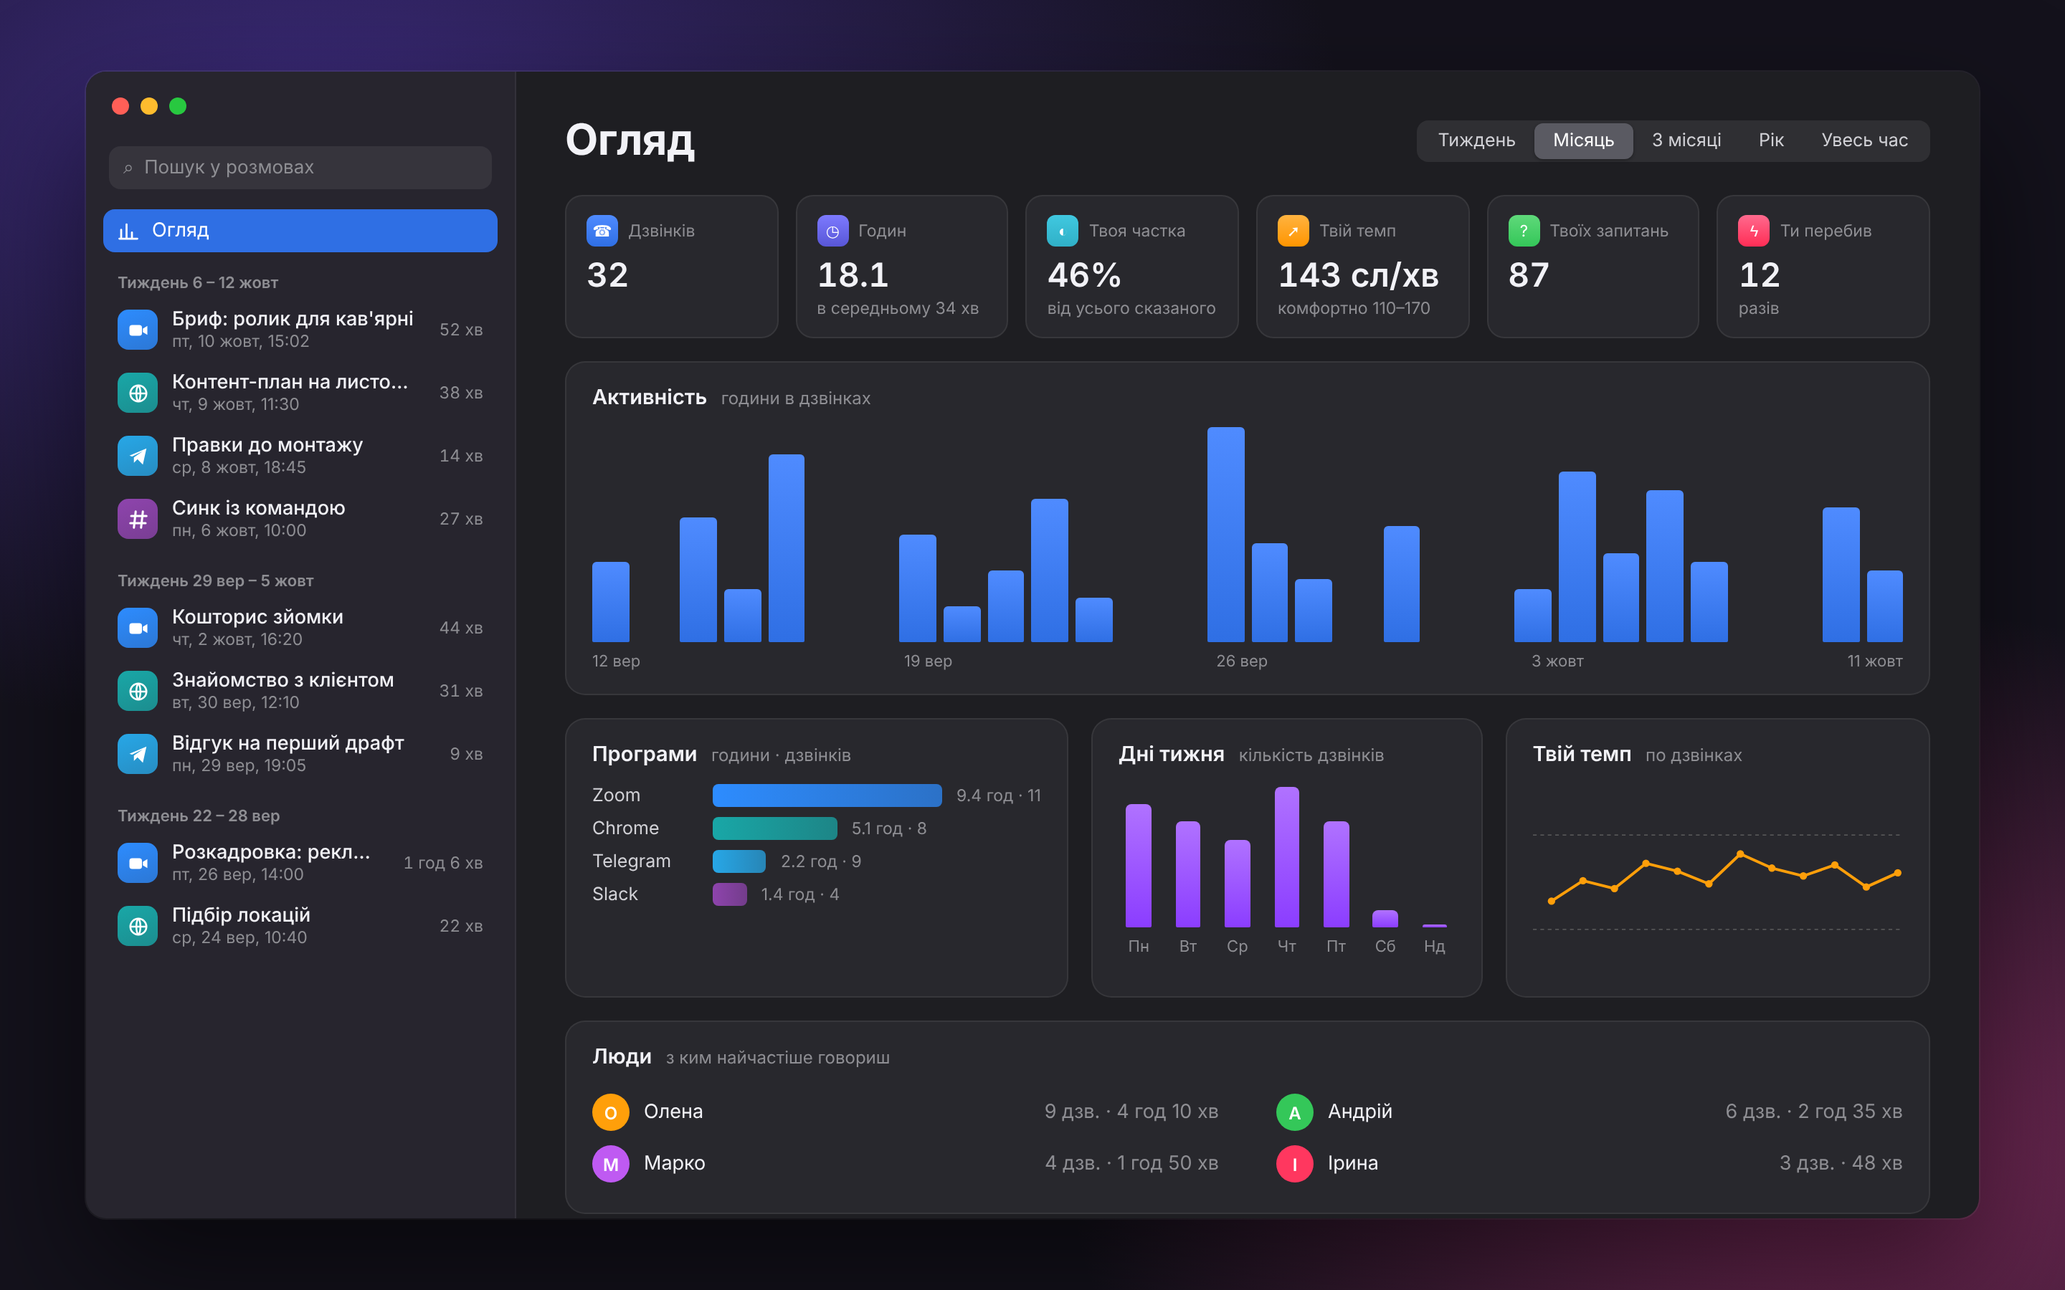
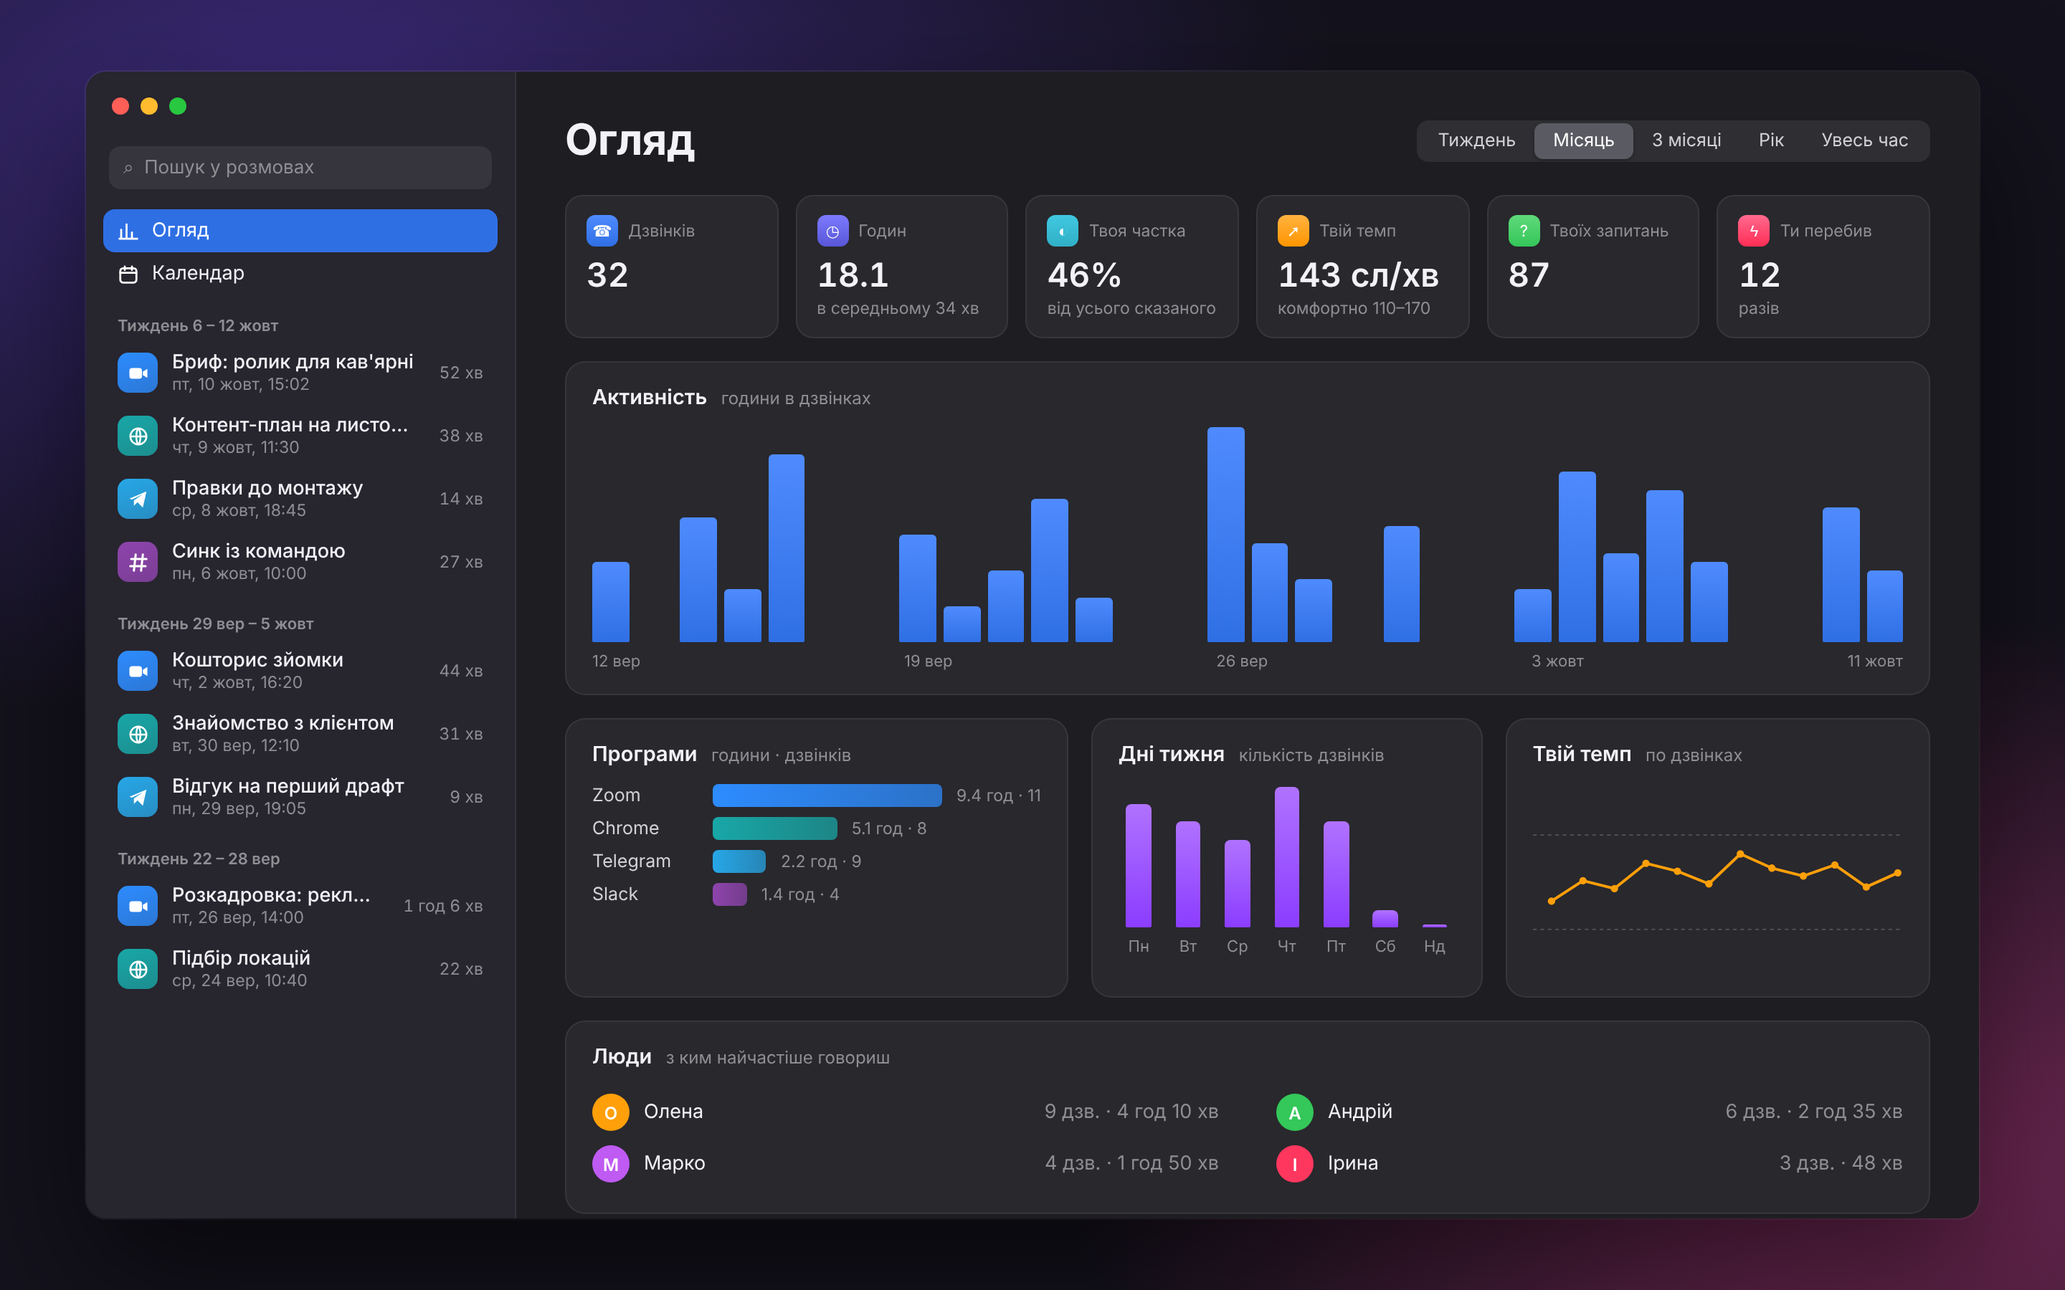
Rozmova 0.10.0: calendar on the site, README and release notes
Calendar mockup and the Календар entry in the dashboard mockups, a calendar
tab and feature card on the site, and notes for the release.

Claude-Session: https://claude.ai/code/session_01S3mzMGjes8qchnCLRbCzC9

Changed region(s): [[0.0312, 0.1867, 0.25, 0.7778]]

diff --git a/docs/index.html b/docs/index.html
@@ -170,7 +170,7 @@
 
 <header class="hero" id="top">
   <div class="wrap">
-    <span class="pill">Безкоштовно · відкритий код · macOS 14+ · v0.9.0</span>
+    <span class="pill">Безкоштовно · відкритий код · macOS 14+ · v0.10.0</span>
     <h1>Записує дзвінки <em>без бота й підписки</em></h1>
     <p class="lead">Rozmova сама помічає дзвінок у будь-якій програмі: Zoom, Google Meet у браузері, Telegram, Slack, FaceTime. Пише твій голос і співрозмовників, за бажанням екран, а потім розшифровує розмову прямо на твоєму Маці. Нічого не йде в хмару.</p>
     <div class="cta">
@@ -227,7 +227,7 @@
       <div class="card"><div class="ic">🧹</div><h3>Прибирає за собою</h3><p>Технічні файли видаляються самі через 2 тижні. Відео, аудіо й розшифровки лишаються назавжди.</p></div>
       <div class="card"><div class="ic">🔒</div><h3>Приватність</h3><p>Ні акаунтів, ні аналітики, ні хмари. Записи лежать у теці на твоєму Маці й нікуди не відправляються.</p></div>
       <div class="card"><div class="ic">♾</div><h3>Без лімітів</h3><p>Скільки завгодно дзвінків будь-якої довжини. Ні лічильника хвилин, ні платного плану.</p></div>
-      <div class="card"><div class="ic">🪶</div><h3>Легка</h3><p>Живе в меню-барі без іконки в Доку. Розшифровка кількох КБ на дзвінок: історію можна тримати роками.</p></div>
+      <div class="card"><div class="ic">📅</div><h3>Календар дзвінків</h3><p>Місяць дзвінків по днях, поруч зустрічі з Календаря macOS. Дзвінок, що йшов під час події, отримує її назву.</p></div>
     </div>
   </div>
 </section>
@@ -253,6 +253,7 @@
       <button role="tab" aria-selected="true" data-p="p1">Огляд</button>
       <button role="tab" aria-selected="false" data-p="p2">Дзвінок</button>
       <button role="tab" aria-selected="false" data-p="p3">Статистика</button>
+      <button role="tab" aria-selected="false" data-p="p4">Календар</button>
     </div>
     <div class="panel" id="p1" role="tabpanel">
       <img src="img/overview.webp" width="1800" height="1125" alt="Огляд за місяць: кількість дзвінків, години, твоя частка розмови, темп, графіки активності, програм і днів тижня, люди" loading="lazy">
@@ -265,6 +266,10 @@
     <div class="panel" id="p3" role="tabpanel" hidden>
       <img src="img/stats.webp" width="1800" height="1125" alt="Статистика дзвінка: частка розмови кожного, темп, запитання, перебивання, паузи, слова-паразити, графік темпу" loading="lazy">
       <p class="caption">Хто скільки говорив, твій темп по хвилинах і моменти, коли ти розганявся, запитання, перебивання, найдовший монолог і слова-паразити.</p>
+    </div>
+    <div class="panel" id="p4" role="tabpanel" hidden>
+      <img src="img/calendar.webp" width="1800" height="1125" alt="Календар: місяць із дзвінками по днях, зустрічі з Календаря macOS і розклад вибраного дня" loading="lazy">
+      <p class="caption">Дзвінки по днях, а поруч зустрічі з Календаря macOS: видно, що записано, а що ні. Клік на день показує його розклад, клік на дзвінок відкриває його.</p>
     </div>
     <p class="fine">Зображення — макети інтерфейсу з вигаданими даними; у програмі деталі можуть відрізнятись.</p>
   </div>
@@ -322,7 +327,7 @@
     <ol class="steps">
       <li><b>Завантаж і перетягни в «Програми»</b><span>Відкрий <code>Rozmova.dmg</code> і перетягни Rozmova на папку Applications. Або встанови одним рядком у Терміналі, команда вгорі сторінки.</span></li>
       <li><b>Перший запуск</b><span>Програма не нотаризована Apple, тож macOS спершу її заблокує. Системні параметри → Приватність і безпека → «Усе одно відкрити». Або одним рядком: <code>xattr -dr com.apple.quarantine /Applications/Rozmova.app</code></span></li>
-      <li><b>Дозволи</b><span>Мікрофон — щоб писати твій голос. Запис екрана й системного звуку — щоб писати співрозмовників (macOS спитає на першому записі, потім перезапусти програму). Сповіщення — щоб бачити «Розшифровка готова».</span></li>
+      <li><b>Дозволи</b><span>Мікрофон — щоб писати твій голос. Запис екрана й системного звуку — щоб писати співрозмовників (macOS спитає на першому записі, потім перезапусти програму). Сповіщення — щоб бачити «Розшифровка готова». За бажанням Календар — щоб дзвінки отримували назви зустрічей.</span></li>
       <li><b>Користуйся</b><span>Іконка з хвилькою з'явиться в рядку меню. Почни будь-який дзвінок, і Rozmova спитає, чи записувати. Перша розшифровка один раз скачає модель, приблизно 0,6 ГБ.</span></li>
     </ol>
   </div>
@@ -333,6 +338,7 @@
     <h2>Питання</h2>
     <details><summary>Чому macOS каже, що програму не можна відкрити?</summary><p>Rozmova безкоштовна й не має платного сертифіката розробника Apple, тож не нотаризована. Один раз відкрий через Системні параметри → Приватність і безпека → «Усе одно відкрити» або виконай <code>xattr -dr com.apple.quarantine /Applications/Rozmova.app</code>.</p></details>
     <details><summary>Чи йде щось в інтернет?</summary><p>Ні, якщо рушій розпізнавання — Parakeet (за замовчуванням): інтернет потрібен лише один раз, щоб скачати модель. Якщо в налаштуваннях обрати Groq, аудіо відправляється на розшифровку в Groq з твоїм ключем.</p></details>
+    <details><summary>Навіщо доступ до Календаря?</summary><p>Він не обовʼязковий. Якщо дозволити, у «Моїх дзвінках» → «Календар» поруч із дзвінками видно зустрічі, а дзвінок, що йшов під час події, отримує її назву замість «Дзвінок у Zoom». Rozmova календар лише читає.</p></details>
     <details><summary>Не пишеться звук співрозмовника</summary><p>Потрібен дозвіл «Запис екрана й системного звуку»: Системні параметри → Приватність і безпека → увімкни Rozmova й перезапусти програму.</p></details>
     <details><summary>Віконце з'являється, коли я диктую текст</summary><p>Популярні програми для диктування Rozmova пропускає сама. Для решти натисни у віконці «Це не дзвінок», і ця програма більше не потурбує.</p></details>
     <details><summary>Чи записує, коли в дзвінку ввімкнений mute?</summary><p>Так: Rozmova пише мікрофон напряму, тож у розшифровку може потрапити те, чого співрозмовники не чули. Пам'ятай про це.</p></details>

diff --git a/README.md b/README.md
@@ -46,6 +46,8 @@
 - **Статистика без нейронок:** хто скільки говорив, твій темп мовлення, запитання,
   перебивання, паузи, найдовший монолог, слова-паразити. Плюс огляд за тиждень, місяць чи
   рік.
+- **Календар дзвінків:** місяць дзвінків по днях, а поруч зустрічі з Календаря macOS. Дзвінок, що
+  йшов під час події, отримує її назву замість «Дзвінок у Zoom». Календар лише читається.
 - **Сам прибирає за собою.** Технічні файли видаляються через 2 тижні, а відео, аудіо й
   розшифровки лишаються назавжди.
 
@@ -62,6 +64,10 @@
 <img src="docs/screenshots/stats.png" alt="Статистика дзвінка" width="900">
 
 <sub>Статистика одного дзвінка: частка розмови, темп по хвилинах, запитання й перебивання</sub>
+
+<img src="docs/screenshots/calendar.png" alt="Календар дзвінків і зустрічей" width="900">
+
+<sub>Календар: дзвінки по днях і зустрічі з Календаря macOS — видно, що записано, а що ні</sub>
 
 </div>
 
@@ -97,7 +103,9 @@
    - **Мікрофон**, щоб писати твій голос;
    - **Запис екрана та системного звуку** (macOS спитає на першому записі), щоб писати
      співрозмовників. Після цього перезапусти програму;
-   - **Сповіщення**, щоб бачити «Запис збережено» й «Розшифровка готова».
+   - **Сповіщення**, щоб бачити «Запис збережено» й «Розшифровка готова»;
+   - за бажанням **Календар** («Мої дзвінки» → «Календар» → «Підключити»), щоб бачити зустрічі
+     поруч із дзвінками й називати записи за подіями.
 
 Під час першої розшифровки програма один раз скачає модель розпізнавання, приблизно 0,6 ГБ.
 

diff --git a/.github/release-notes.md b/.github/release-notes.md
@@ -1,3 +1,9 @@
+## Що нового в 0.10.0
+
+- **Календар дзвінків** у «Моїх дзвінках»: місяць по днях, поруч зустрічі з Календаря macOS і розклад вибраного дня — що записано, а що ні.
+- Дзвінок, що йшов під час події, отримує її назву: у списку, у шапці .txt і вже у віконці «Записати?». Старі дзвінки підписуються самі після підключення Календаря.
+- Доступ до Календаря необовʼязковий і лише на читання.
+
 ## Встановлення
 
 1. Завантаж `Rozmova.dmg` нижче й відкрий його. Або одним рядком у Терміналі: `curl -fsSL https://slavashootit.github.io/rozmova/install.sh | bash`
